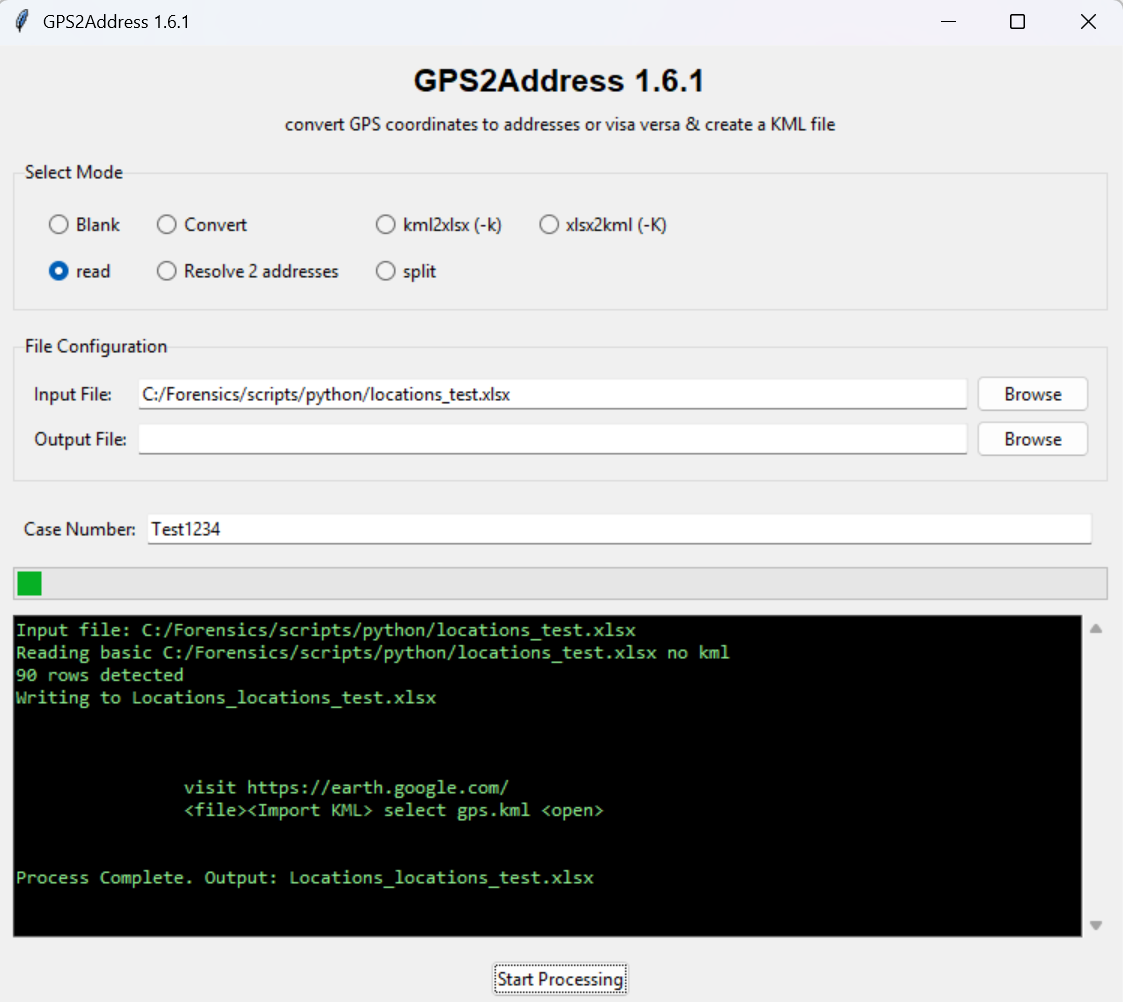
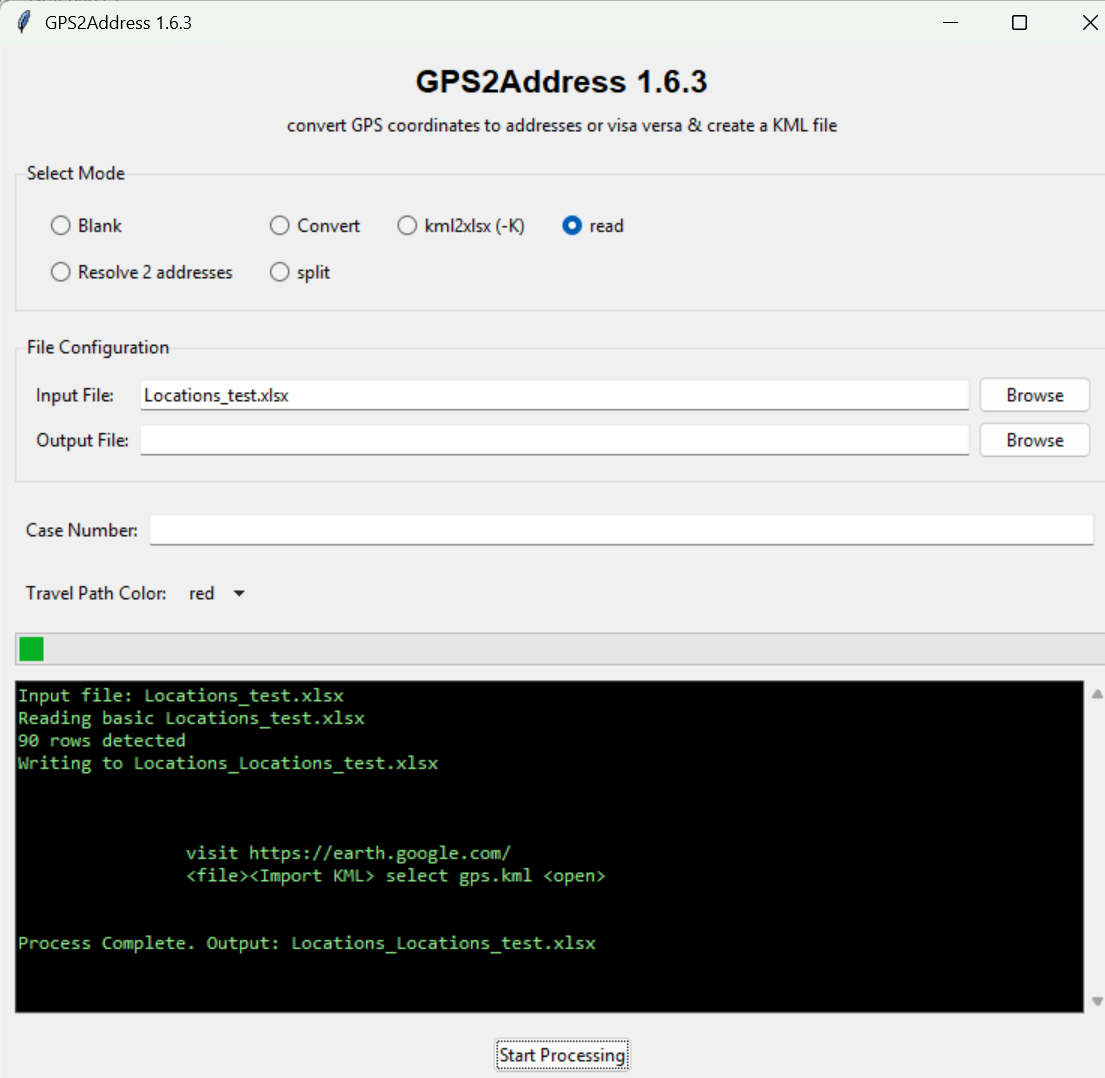
.

diff --git a/GPS2Address/GPS2Address.py b/GPS2Address/GPS2Address.py
@@ -51,7 +51,7 @@ import queue
 
 author = 'LincolnLandForensics'
 description2 = "convert GPS coordinates to addresses or visa versa & create a KML file"
-version = '1.6.1'
+version = '1.6.3'
 
 # <<<<<<<<<<<<<<<<<<<<<<<<<<      Menu           >>>>>>>>>>>>>>>>>>>>>>>>>>
 # @cache
@@ -59,7 +59,7 @@ class GPS2AddressGUI:
     def __init__(self, root):
         self.root = root
         self.root.title(f"GPS2Address {version}")
-        self.root.geometry("750x650")
+        self.root.geometry("750x700")
         
         # Set Vista theme
         style = ttk.Style()
@@ -85,11 +85,13 @@ class GPS2AddressGUI:
         radio_frame.pack(fill=tk.X, pady=(0, 15))
 
         self.mode_var = tk.StringVar(value="read_basic")
+        # rem these out to remove them from the menu
         modes = [
             ("Blank", "blank"),
             ("Convert", "convert"),
-            ("kml2xlsx (-k)", "kml"),
-            ("xlsx2kml (-K)", "kml2xlsx"),
+            # ("kml2xlsx (-k)", "kml"),
+            ("kml2xlsx (-K)", "kml2xlsx"),    
+            # ("xlsx2kml (-K)", "xlsx2kml"),
             ("read", "read_basic"),
             ("Resolve 2 addresses", "read"),
             ("split", "split")
@@ -125,6 +127,15 @@ class GPS2AddressGUI:
         self.case_entry = ttk.Entry(self.case_frame, textvariable=self.case_var)
         self.case_entry.grid(row=0, column=1, sticky=(tk.W, tk.E), padx=5)
         self.case_frame.columnconfigure(1, weight=1)
+
+        # Travel Path Color Field (Managed visibility)
+        self.color_frame = ttk.Frame(main_frame, padding="5")
+        self.color_frame.pack(fill=tk.X, pady=(0, 10))
+        ttk.Label(self.color_frame, text="Travel Path Color:").grid(row=0, column=0, sticky=tk.W)
+        self.color_var = tk.StringVar(value="red")
+        colors = ["red", "yellow", "green", "blue", "cyan", "magenta", "black", "white"]
+        self.color_dropdown = ttk.OptionMenu(self.color_frame, self.color_var, "red", *colors)
+        self.color_dropdown.grid(row=0, column=1, sticky=tk.W, padx=5)
 
         # Progress Bar and Status Window
         self.progress = ttk.Progressbar(main_frame, mode='indeterminate')
@@ -171,11 +182,16 @@ class GPS2AddressGUI:
             self.input_var.set("Locations.xlsx")
             self.output_var.set("")
 
-        # Show/Hide Case Number field
+        # Show/Hide Case Number and Color fields
         if mode in ["read_basic", "read", "split"]:
             self.case_frame.pack(fill=tk.X, pady=(0, 10), after=self.file_frame)
+            if mode in ["read_basic", "read"]:
+                self.color_frame.pack(fill=tk.X, pady=(0, 10), after=self.case_frame)
+            else:
+                self.color_frame.pack_forget()
         else:
             self.case_frame.pack_forget()
+            self.color_frame.pack_forget()
 
     def browse_input(self):
         mode = self.mode_var.get()
@@ -237,10 +253,11 @@ class GPS2AddressGUI:
         try:
             # Prepare arguments for the existing processing logic
             class Args:
-                def __init__(self, input_f, output_f, m, case_num):
+                def __init__(self, input_f, output_f, m, case_num, color):
                     self.input = input_f
                     self.output = output_f
                     self.case_number = case_num
+                    self.travel_path_color = color
                     self.blank = (m == "blank")
                     self.convert = (m == "convert")
                     self.kml = (m == "kml")
@@ -250,7 +267,7 @@ class GPS2AddressGUI:
                     self.split = (m == "split")
                     self.howto = False
             
-            args = Args(input_file, output_file, mode, self.case_var.get())
+            args = Args(input_file, output_file, mode, self.case_var.get(), self.color_var.get())
             
             # Call the redirected main processing logic
             final_output = run_gps_processing(args, gui_log=self.log)
@@ -264,6 +281,7 @@ class GPS2AddressGUI:
             msg_type, data = self.queue.get_nowait()
             if msg_type == "DONE":
                 self.log(f"Process Complete. Output: {data}")
+                # self.log(f"test https://northloopconsulting.com/blog/fetch-v52")
                 self.processing = False
                 self.start_button.configure(state='normal')
                 self.progress.stop()
@@ -290,6 +308,7 @@ def main():
         parser.add_argument('-r', '--read_basic', help='read basic xlsx', required=False, action='store_true')
         parser.add_argument('-s', '--split', help='split xlsx to 10000 lines per sheet for Google Earth', required=False, action='store_true')
         parser.add_argument('-C', '--case', help='case number', required=False)
+        parser.add_argument('-p', '--travel_path_color', help='travel path color (default: red)', required=False, default='red', choices=['black', 'white', 'red', 'green', 'yellow', 'cyan', 'magenta', 'blue'])
 
         args = parser.parse_args()
         # Add case_number to args if not present for run_gps_processing
@@ -316,7 +335,6 @@ def run_gps_processing(args, gui_log=None):
     global output_kml
 
     global input_kml
-    # input_kml = 'Locations.kml'
     input_kml = ''
     
     if not args.input: 
@@ -370,19 +388,22 @@ def run_gps_processing(args, gui_log=None):
 
     elif args.kml:
         data = []
-        file_exists = os.path.exists(input_xlsx)
-        if file_exists == True:
-            msg_blurb = (f'Reading {input_xlsx}')
+        file_exists = os.path.exists(input_kml)
+        
+        print(f'{input_kml} file_exists = {file_exists}')   # temp
+        if 1 == 1:
+        # if file_exists == True:
+            msg_blurb = (f'Reading {input_kml}')
             if gui_log: gui_log(msg_blurb)
             msg_blurb_square(msg_blurb)
 
-            # data = read_xlsx(input_xlsx)
-            (data, coordinates) = read_locations(input_xlsx, case_number_gui=args.case_number)
+            # data = read_xlsx(input_kml)
+            (data, coordinates) = read_locations(input_kml, case_number_gui=args.case_number)
 
             # create kml file
             write_locations(data)   # ??
             write_kml(data)
-            travel_path_kml(coordinates)
+            travel_path_kml(coordinates, color_choice=getattr(args, 'travel_path_color', 'red'))
             
             workbook.close()
             # print(f'Writing to {output_xlsx} ')
@@ -404,6 +425,7 @@ def run_gps_processing(args, gui_log=None):
     elif args.kml2xlsx:
         data = []
         file_exists = os.path.exists(input_kml)
+        print(f'bobs your uncle')   # temp
         if file_exists == True:
             msg_blurb = (f'Reading {input_kml}')
             if gui_log: gui_log(msg_blurb)
@@ -415,7 +437,7 @@ def run_gps_processing(args, gui_log=None):
             # create kml file
             write_locations(data)   # ??
             # write_kml(data)
-            # travel_path_kml(coordinates)
+            # travel_path_kml(coordinates, color_choice=getattr(args, 'travel_path_color', 'red'))
             
             workbook.close()
             msg_blurb = (f'Writing to {output_xlsx}')
@@ -472,7 +494,7 @@ def run_gps_processing(args, gui_log=None):
             if row_count > 10000:
                 write_csv(data)
 
-            travel_path_kml(coordinates)
+            travel_path_kml(coordinates, color_choice=getattr(args, 'travel_path_color', 'red'))
             workbook.close()
             msg_blurb = (f'Writing to {output_xlsx}')
             if gui_log: gui_log(msg_blurb)
@@ -543,7 +565,7 @@ def run_gps_processing(args, gui_log=None):
                 if row_count > 10000:
                     write_csv(data)                
                 
-                travel_path_kml(coordinates)
+                travel_path_kml(coordinates, color_choice=getattr(args, 'travel_path_color', 'red'))
                 workbook.close()
                 msg_blurb = (f'Writing to {output_xlsx}')
                 if gui_log: gui_log(msg_blurb)
@@ -886,7 +908,7 @@ def kml_to_excel(data):
 def random_color():
     return simplekml.Color.rgb(random.randint(0, 255), random.randint(0, 255), random.randint(0, 255))
     
-def travel_path_kml(coordinates):
+def travel_path_kml(coordinates, color_choice='red'):
     '''
     This reads latitude and longitude coordinates and generates a KML file with lines 
     connecting the points and no icons displayed.
@@ -900,9 +922,11 @@ def travel_path_kml(coordinates):
     # for coord in coordinates:
         # lat, long, timestamp = coord
         # print(f"Latitude: {lat}, Longitude: {long}, Timestamp: {timestamp}")
-        
+    
     for i in range(len(coordinates) - 1):
-        new_color = simplekml.Color.red    # test
+        new_color = getattr(simplekml.Color, color_choice.lower(), simplekml.Color.red)
+
+        
         # (new_color, linestring) = ('ff2f41ac', '')
         coord1 = coordinates[i]
         coord2 = coordinates[i + 1]
@@ -1684,7 +1708,8 @@ def read_locations(input_xlsx, case_number_gui=None):
 
     if case_number_gui:
         case_prompt = case_number_gui
-    # else:
+    else:
+        case_prompt = ''
         # case_prompt = case_number_prompt()
 
     cnt = 0
@@ -2545,12 +2570,8 @@ def read_locations(input_xlsx, case_number_gui=None):
 
         # if case == '' or case is None:
             case = row_data.get("case", "") 
-            print(f'____2222222222222_____case = {case_prompt}  case = {case}')   # temp this works
         if not case:
-        # if case == '':
-        
             case = case_prompt
-            print(f'_____4____case_prompt = {case_prompt} case = {case}')   # temp The print statement doesn't work
 
 # location
         location  = row_data.get("Location", "") 
@@ -3492,6 +3513,7 @@ if __name__ == '__main__':
 # <<<<<<<<<<<<<<<<<<<<<<<<<< Future Wishlist  >>>>>>>>>>>>>>>>>>>>>>>>>>
 
 """
+add a way to select travelpath color instead of the default blue. (pulldown windows)
 Gui CASE input doesn't populate
 make Google earch use a time bar slider 
 <TimeStamp>
